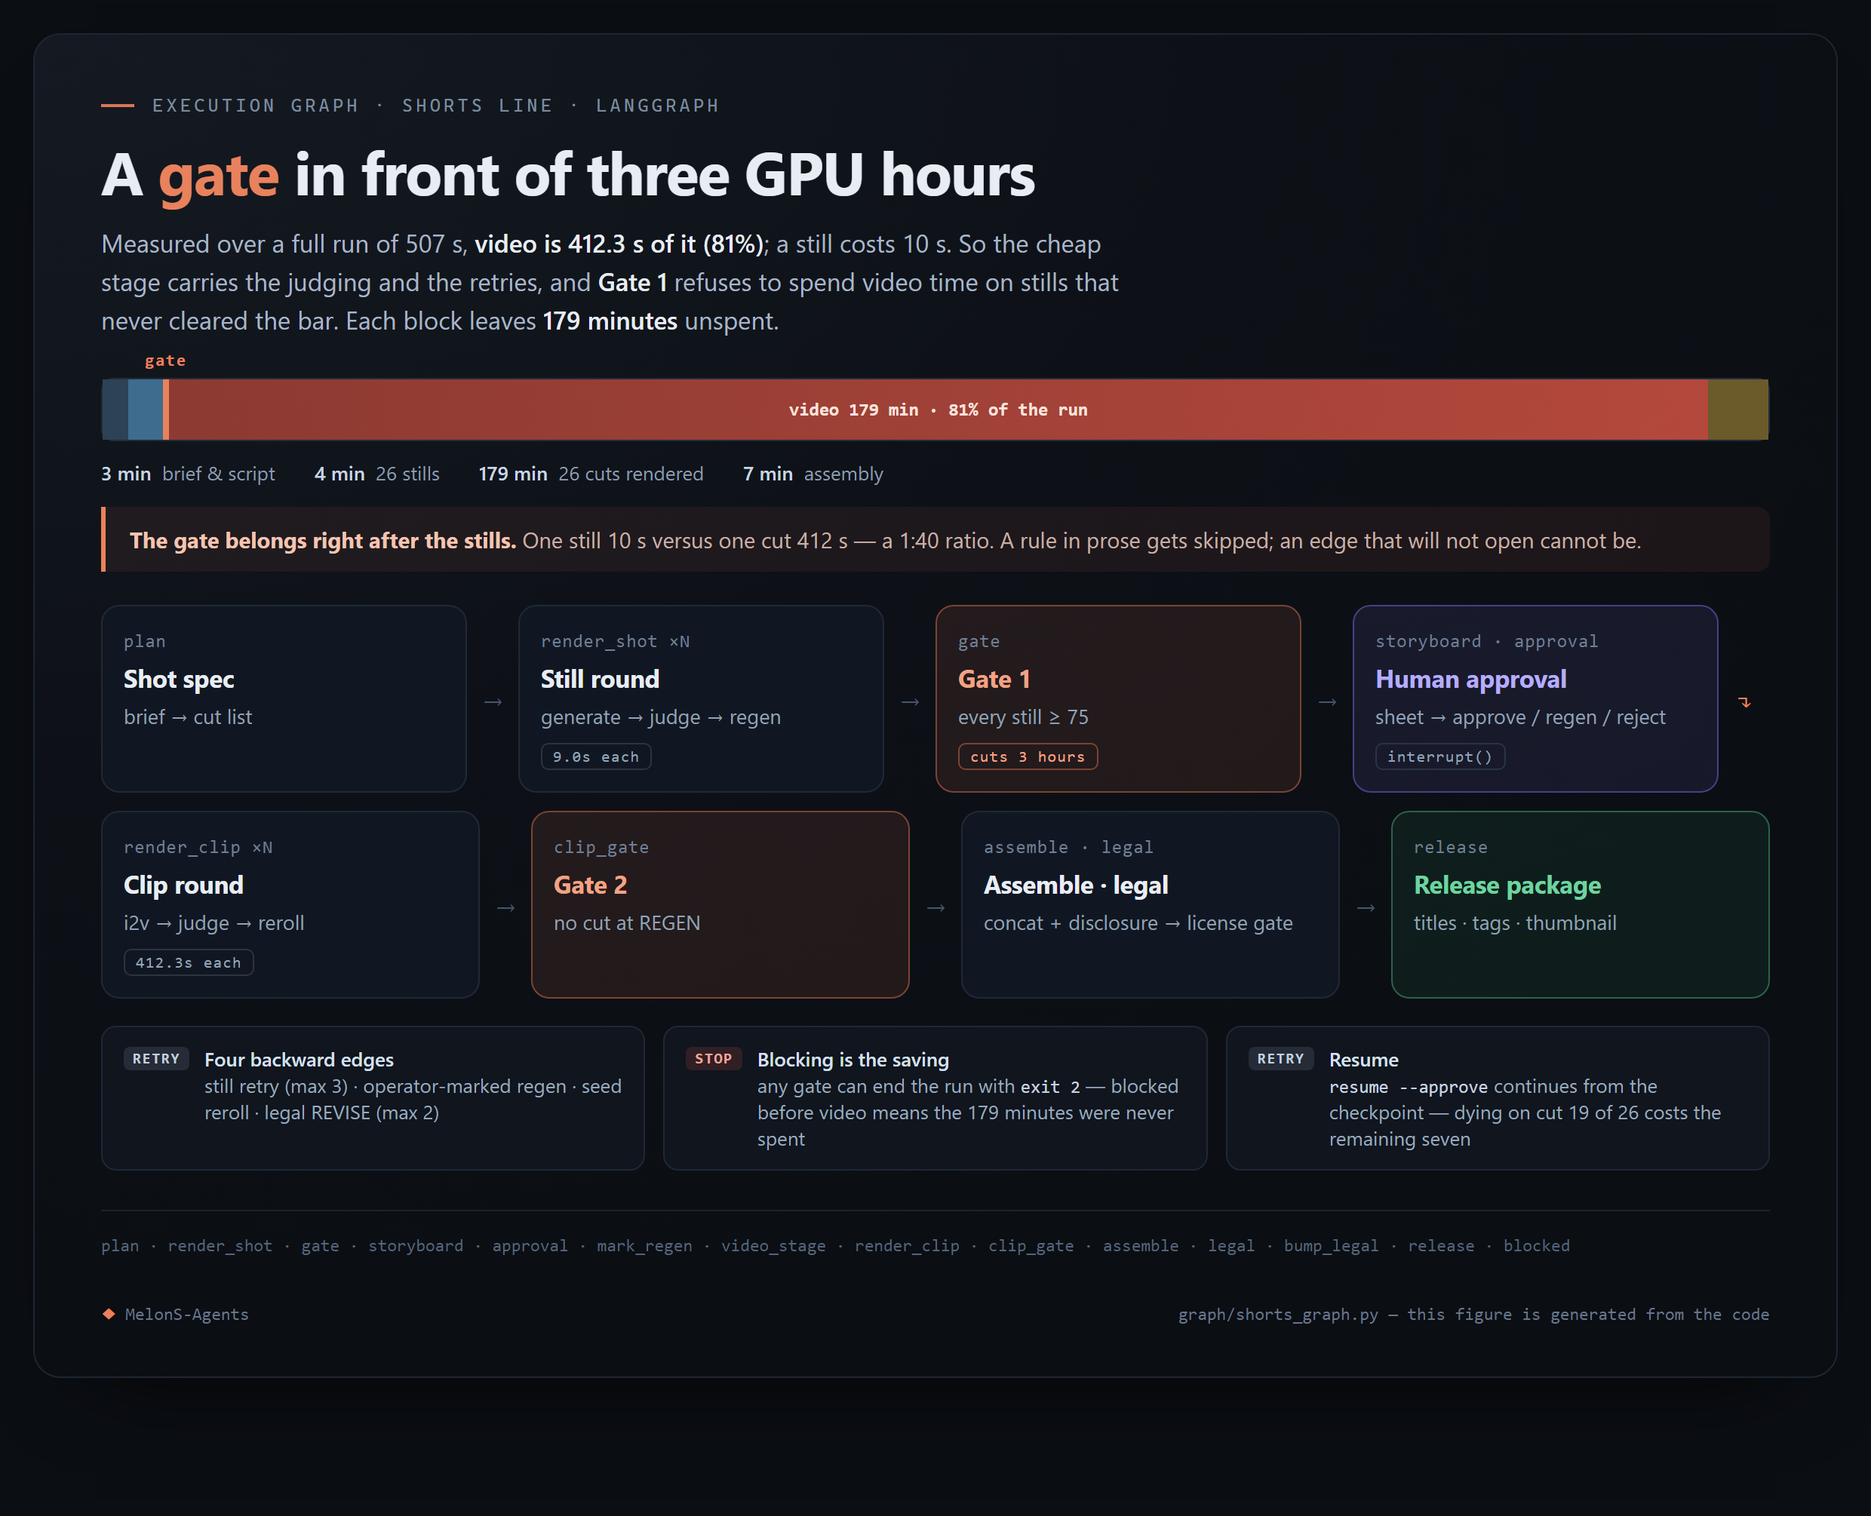
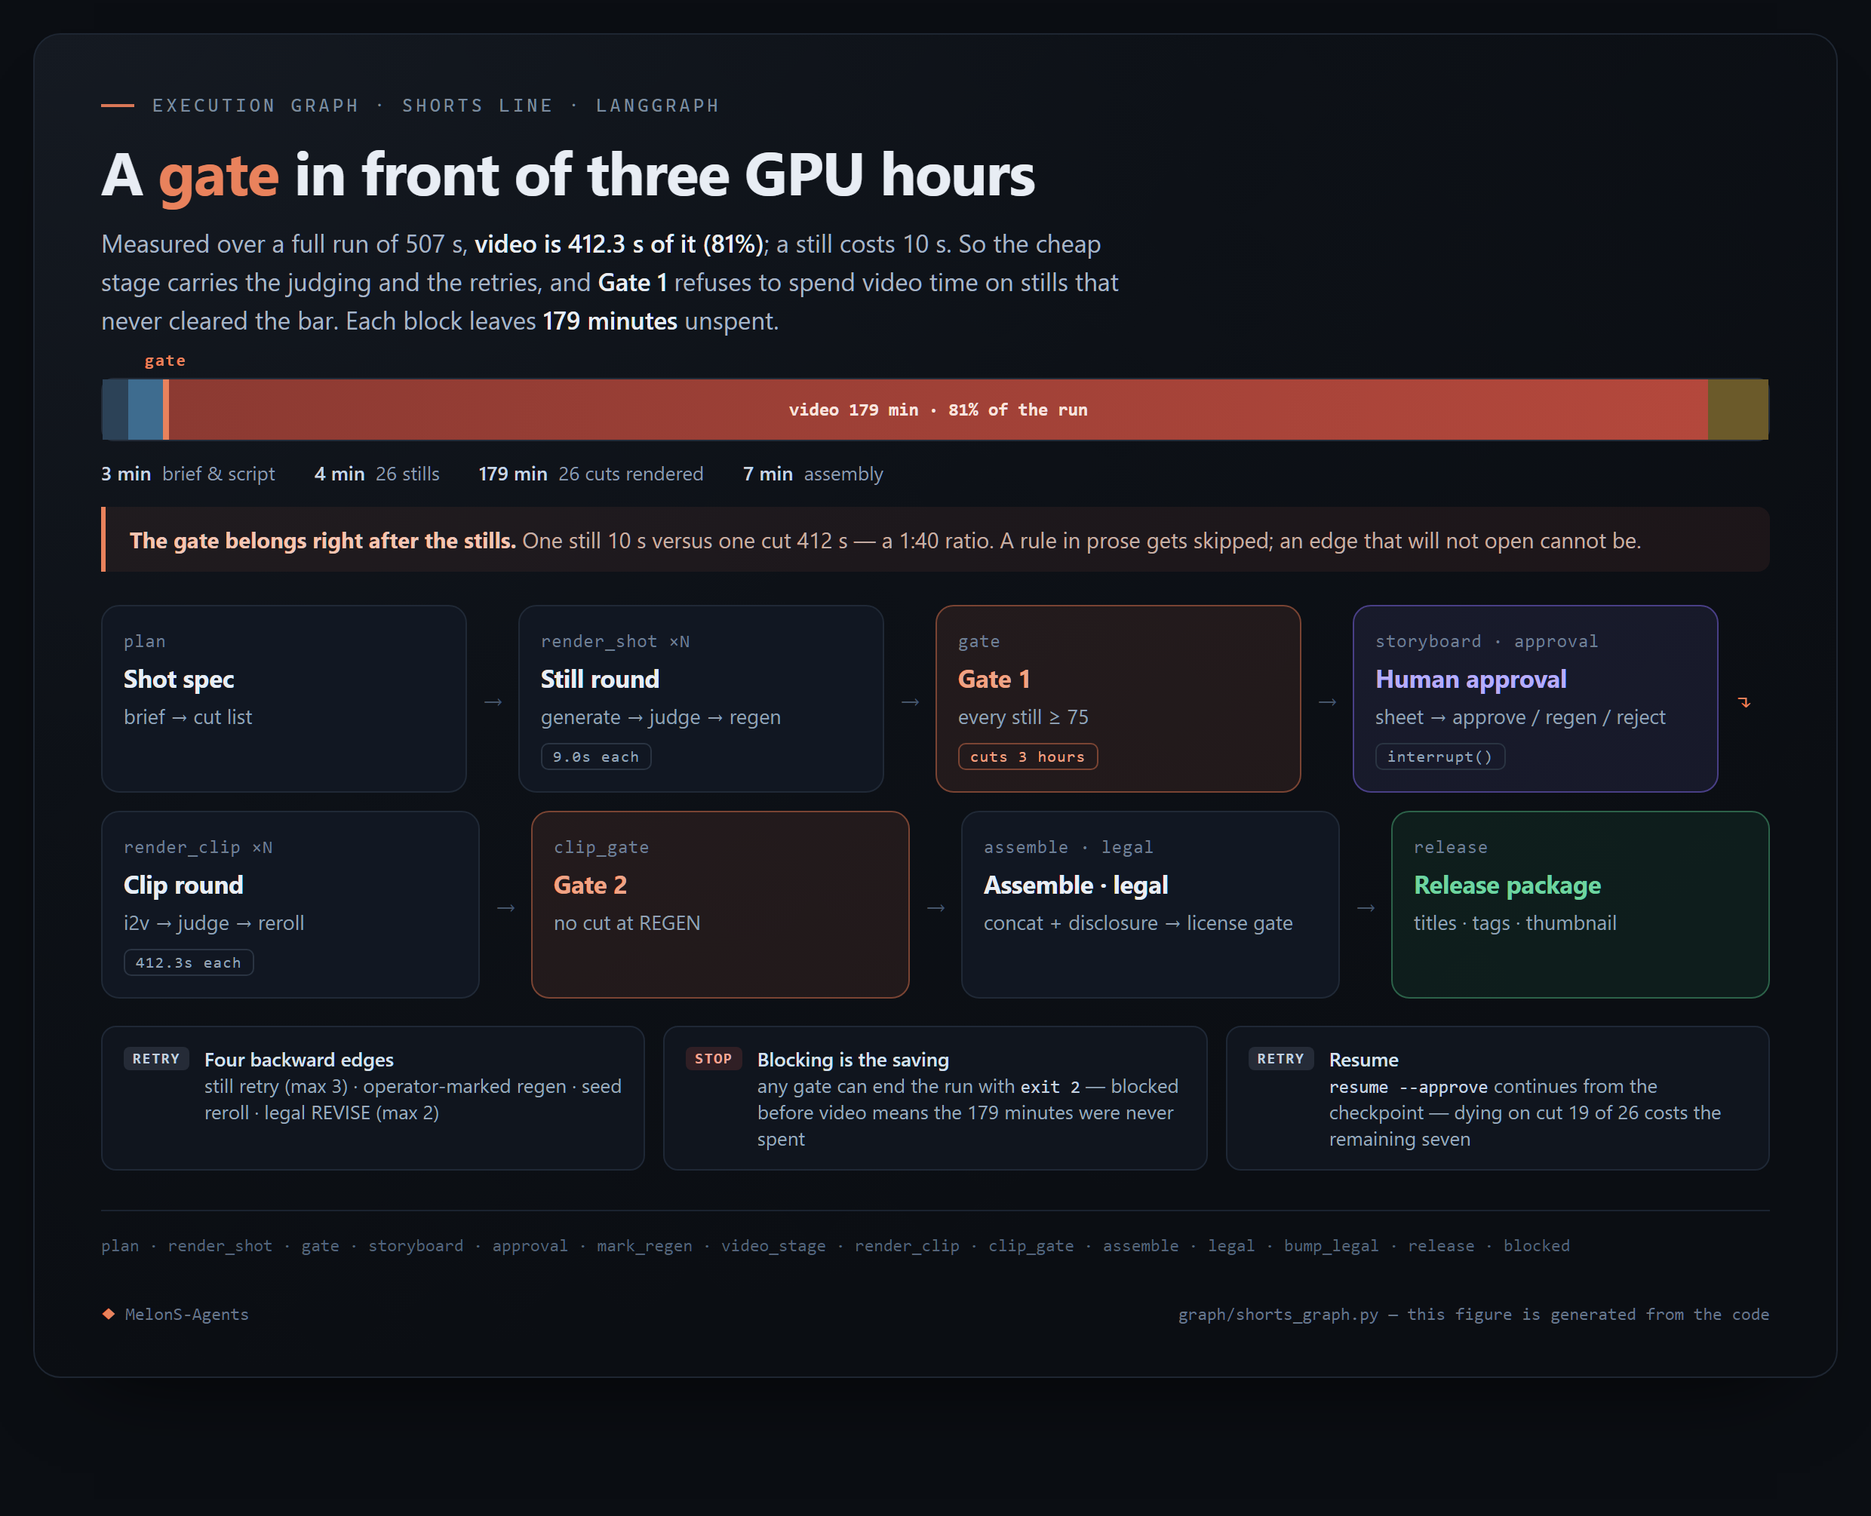
docs(readme): 구조도 안 한국어를 읽히게 다시 씀 — 내부 용어를 걷어냈다
운영자: "한국어 표현이 어색하고 무슨말인지 모르겠음". 그림은 있었지만 그 안의
문구가 처음 보는 사람 기준으로 읽히지 않았다. 세 가지가 겹쳐 있었다.

1. 문체가 README 와 달랐다 — 본문은 합니다체인데 카드만 "…막는다 / …남는다"
   해라체였다(docs/ko-style-guide.md §1 위반).
2. 내부 용어가 설명 없이 그대로 — fan-out · 엣지 · interrupt() · REGEN 컷 0 ·
   시드 리롤 · 뮤텍스 · 배타 구간 · exit 2.
3. 뜻이 모호한 축약 — "3시간 차단", "상태의 경로만 읽음", "차단 = 절약".

바꾼 방향은 "무엇을 하는가"를 그대로 쓰는 것:
- 문 1 → **1차 검사** / "모든 스틸이 75점을 넘어야 통과" · 배지 "여기서 3시간을 아낍니다"
- 사람 승인(interrupt()) → **사람 확인** / "검수 시트를 보고 승인·재생성·취소"
- REGEN 컷 0 → "다시 만들어야 할 컷이 없어야 통과"
- 되돌아가는 엣지 4개 → **다시 돌아가는 길 4개**
- 차단 = 절약 → "막히면 그 자리에서 끝납니다 … 179분은 아직 쓰지 않은 상태입니다"
- 게임: "같은 fan-out, 문이 아니라 뮤텍스" → **"갈라져 일하고, Unity 앞에서 한 줄로
  섭니다"**, 배타 구간 → "Unity 차례 · 한 번에 하나만", 거짓 검증 →
  "어제 빌드를 보고 '고쳤다'고 하는 일을 막습니다"
- 용어 통일: 막대·범례의 영상화/영상 생성, 마커 문/검사.

노드 id(plan · render_shot …)는 코드 이름이라 그대로 뒀다 — 그림과 코드를 잇는
근거다. 카드 alt 도 새 문구에 맞춰 갱신(parity OK).

diff --git a/scripts/render-graph-art.py b/scripts/render-graph-art.py
@@ -150,43 +150,45 @@ def _rows(steps: list[str], per_row: int = 4) -> str:
 def shorts_html(lang: str) -> str:
     ko = lang == "ko"
     steps = [
-        _step("plan", "샷 스펙" if ko else "Shot spec", "기획 → 컷 목록" if ko else "brief → cut list"),
+        _step("plan", "촬영 목록" if ko else "Shot spec", "기획을 컷 단위로 나눕니다" if ko else "brief → cut list"),
         _step("render_shot ×N", "스틸 라운드" if ko else "Still round",
-              "생성 → 심사 → 재생성" if ko else "generate → judge → regen", badge="9.0s / 장" if ko else "9.0s each"),
-        _step("gate", "문 1" if ko else "Gate 1",
-              "전 샷 75점 이상" if ko else "every still ≥ 75", kind="gate",
-              badge="3시간 차단" if ko else "cuts 3 hours"),
-        _step("storyboard · approval", "사람 승인" if ko else "Human approval",
-              "검수 시트 → 승인·재생성·취소" if ko else "sheet → approve / regen / reject",
-              kind="human", badge="interrupt()"),
+              "이미지 생성 → 채점 → 미달이면 다시" if ko else "generate → judge → regen", badge="장당 9초" if ko else "9.0s each"),
+        _step("gate", "1차 검사" if ko else "Gate 1",
+              "모든 스틸이 75점을 넘어야 통과" if ko else "every still ≥ 75", kind="gate",
+              badge="여기서 3시간을 아낍니다" if ko else "cuts 3 hours"),
+        _step("storyboard · approval", "사람 확인" if ko else "Human approval",
+              "검수 시트를 보고 승인·재생성·취소" if ko else "sheet → approve / regen / reject",
+              kind="human", badge="여기서 멈춰 기다립니다" if ko else "interrupt()"),
         _step("render_clip ×N", "컷 라운드" if ko else "Clip round",
-              "영상화 → 심사 → 시드 리롤" if ko else "i2v → judge → reroll",
-              badge="412.3s / 컷" if ko else "412.3s each"),
-        _step("clip_gate", "문 2" if ko else "Gate 2",
-              "REGEN 컷 0" if ko else "no cut at REGEN", kind="gate"),
-        _step("assemble · legal", "조립 · 법률" if ko else "Assemble · legal",
-              "concat + 고지 → 라이선스 게이트" if ko else "concat + disclosure → license gate"),
-        _step("release", "출시 패키지" if ko else "Release package",
-              "제목·태그·썸네일·귀속" if ko else "titles · tags · thumbnail", kind="done"),
+              "스틸을 영상으로 → 채점 → 다시 뽑기" if ko else "i2v → judge → reroll",
+              badge="컷당 412초" if ko else "412.3s each"),
+        _step("clip_gate", "2차 검사" if ko else "Gate 2",
+              "다시 만들어야 할 컷이 없어야 통과" if ko else "no cut at REGEN", kind="gate"),
+        _step("assemble · legal", "합치고 법률 검토" if ko else "Assemble · legal",
+              "이어붙이기·출처 표기 → 저작권 확인" if ko else "concat + disclosure → license gate"),
+        _step("release", "출시 준비 완료" if ko else "Release package",
+              "제목·태그·썸네일·출처 정리" if ko else "titles · tags · thumbnail", kind="done"),
     ]
     flow = _rows(steps, 4)
     if ko:
-        eyebrow = "실행 그래프 · 쇼츠 라인 · LANGGRAPH"
+        eyebrow = "쇼츠 제작 흐름 · LANGGRAPH"
         title = 'GPU 3시간 앞에 <em>문</em>을 세운다'
-        lede = ("한 편 실측 507초 중 <b>영상화가 412.3초(81%)</b>다. 스틸 한 장은 10초. "
-                "그래서 싼 단계가 심사와 재시도를 안고, <b>문 1</b>이 기준 미달 스틸에 영상화 시간을 "
-                "쓰지 못하게 막는다. 한 번 막을 때마다 <b>179분</b>이 남는다.")
-        legend = [("기획·대본", "3분"), ("스틸 26장", "4분"), ("영상화 26컷", "179분"), ("조립·자막", "7분")]
-        tip = ("<b>문의 자리는 스틸 직후.</b> 스틸 1장 10초 대 컷 1개 412초 — 비용비 1:40. "
-               "문서에 적어 두면 잊히지만, 엣지가 열리지 않으면 잊을 수가 없다.")
-        rails = [("retry", "되돌아가는 엣지 4개",
-                  "스틸 재시도(최대 3) · 승인에서 지목한 재생성 · 시드 리롤 · 법률 REVISE(최대 2)"),
-                 ("stop", "차단 = 절약",
-                  "어느 문에서 막히든 <code>exit 2</code>. 영상화 전에 막히면 179분을 아직 안 쓴 상태다"),
-                 ("retry", "이어서 하기",
-                  "<code>resume --approve</code> 는 체크포인트에서 재개 — 26컷 중 19컷에서 죽어도 남은 7컷만")]
+        lede = ("쇼츠 한 편을 만드는 데 약 3시간이 걸리는데, 실제로 재 보니 그중 <b>81%가 영상 생성 "
+                "한 단계</b>였습니다(507초 중 412초). 스틸 이미지 한 장은 10초면 만듭니다. 그래서 값싼 "
+                "스틸 단계에서 먼저 채점하고, 기준을 넘지 못한 스틸은 영상 생성으로 넘기지 않습니다. "
+                "한 번 걸러낼 때마다 <b>179분</b>을 아낍니다.")
+        legend = [("기획·대본", "3분"), ("스틸 26장", "4분"), ("영상 생성 26컷", "179분"), ("조립·자막", "7분")]
+        tip = ("<b>검사 지점은 스틸 직후입니다.</b> 스틸 한 장 10초 대 영상 한 컷 412초, 비용이 40배 "
+               "차이 납니다. 문서에 적어 둔 규칙은 잊히지만, 검사를 통과하지 못하면 다음 단계로 가는 "
+               "길 자체가 열리지 않습니다.")
+        rails = [("retry", "다시 돌아가는 길 4개",
+                  "스틸 다시 만들기(최대 3회) · 사람이 지목한 것만 다시 · 영상 다시 뽑기 · 법률 수정(최대 2회)"),
+                 ("stop", "막히면 그 자리에서 끝납니다",
+                  "어느 검사에서 막히든 실행이 종료됩니다. 영상 생성 전에 막혔다면 179분은 아직 쓰지 않은 상태입니다"),
+                 ("retry", "중간부터 다시",
+                  "진행 상황이 저장돼 있어, 26컷 중 19컷에서 멈춰도 남은 7컷만 다시 만듭니다")]
         foot_l = "plan · render_shot · gate · storyboard · approval · mark_regen · video_stage · render_clip · clip_gate · assemble · legal · bump_legal · release · blocked"
-        foot_r = "graph/shorts_graph.py — 이 그림은 코드에서 생성된다"
+        foot_r = "graph/shorts_graph.py — 이 그림은 코드에서 자동 생성됩니다"
     else:
         eyebrow = "EXECUTION GRAPH · SHORTS LINE · LANGGRAPH"
         title = 'A <em>gate</em> in front of three GPU hours'
@@ -205,7 +207,7 @@ def shorts_html(lang: str) -> str:
         foot_l = "plan · render_shot · gate · storyboard · approval · mark_regen · video_stage · render_clip · clip_gate · assemble · legal · bump_legal · release · blocked"
         foot_r = "graph/shorts_graph.py — this figure is generated from the code"
 
-    gate_label = "문" if ko else "gate"
+    gate_label = "검사" if ko else "gate"
     legend_html = "".join(
         f'<div><b>{_esc(v)}</b> &nbsp;{_esc(k)}</div>' for k, v in legend)
     rails_html = "".join(
@@ -218,7 +220,7 @@ def shorts_html(lang: str) -> str:
   <div class="bar-wrap">
     <div class="bar">
       <div class="s-plan"></div><div class="s-still"></div><div class="s-gate" data-label="{gate_label}"></div>
-      <div class="s-i2v">{'영상화 179분 · 전체의 81%' if ko else 'video 179 min · 81% of the run'}</div>
+      <div class="s-i2v">{'영상 생성 179분 · 전체의 81%' if ko else 'video 179 min · 81% of the run'}</div>
       <div class="s-asm"></div>
     </div>
     <div class="bar-legend">{legend_html}</div>
@@ -234,35 +236,37 @@ def shorts_html(lang: str) -> str:
 def game_html(lang: str) -> str:
     ko = lang == "ko"
     steps = [
-        _step("pm_publish", "작업 발행" if ko else "Publish task", "레인 3개 오픈" if ko else "open three lanes"),
+        _step("pm_publish", "작업 발행" if ko else "Publish task", "할 일을 정하고 세 갈래로 나눕니다" if ko else "open three lanes"),
         _step("review", "검토" if ko else "Review",
-              "Director · Designer · AI Designer", kind="gate"),
-        _step("work_lane ×3", "제작 병렬" if ko else "Parallel lanes",
-              "코드 · 아트 · 사운드" if ko else "code · art · sound", badge="fan-out"),
-        _step("unity_scene · unity_build", "Unity 배타 구간" if ko else "Unity critical section",
-              "씬 생성 → 빌드, 산출물 경로를 상태에 확정" if ko else "scene → build, paths pinned into state",
-              kind="human", badge="🔒 mutex"),
-        _step("qa", "실물 검증" if ko else "Verify on the build",
-              "exe 실행 · 스크린샷 — 상태의 경로만 읽는다" if ko else "launch exe · screenshot — pinned paths only"),
-        _step("ta", "아트 심사" if ko else "Art review",
-              "TA 가 품질을 채점하고 수정 지시" if ko else "TA scores quality, returns a fix list", kind="gate"),
-        _step("pm_merge", "병합" if ko else "Merge",
-              "리듀서가 상태를 합친다" if ko else "reducer merges state", kind="done"),
+              "방향·설계·AI 담당이 함께 확인합니다" if ko else "Director · Designer · AI Designer", kind="gate"),
+        _step("work_lane ×3", "동시 작업" if ko else "Parallel lanes",
+              "코드 · 아트 · 사운드" if ko else "code · art · sound", badge="세 갈래 동시" if ko else "fan-out"),
+        _step("unity_scene · unity_build", "Unity 차례" if ko else "Unity critical section",
+              "씬을 만들고 빌드합니다. 만든 결과물의 위치를 기록해 둡니다" if ko else "scene → build, paths pinned into state",
+              kind="human", badge="🔒 한 번에 하나만" if ko else "🔒 mutex"),
+        _step("qa", "직접 확인" if ko else "Verify on the build",
+              "빌드를 실행해 화면을 찍습니다. 방금 기록해 둔 그 결과물만 봅니다" if ko else "launch exe · screenshot — pinned paths only"),
+        _step("ta", "아트 검사" if ko else "Art review",
+              "그림 품질을 채점하고 고칠 점을 알려 줍니다" if ko else "TA scores quality, returns a fix list", kind="gate"),
+        _step("pm_merge", "반영" if ko else "Merge",
+              "각 갈래의 결과를 하나로 합칩니다" if ko else "reducer merges state", kind="done"),
     ]
     flow = _rows(steps, 4)
     if ko:
-        eyebrow = "실행 그래프 · 게임 라인 · LANGGRAPH"
-        title = '같은 fan-out, 문이 아니라 <em>뮤텍스</em>'
-        lede = ("게임 라인의 병목은 시간이 아니라 <b>배타 자원</b>과 <b>거짓 검증</b>이다. "
-                "Unity 는 두 레인이 동시에 몰 수 없어서, 병렬 제작 레인이 문이 아니라 뮤텍스에서 합류한다.")
-        rails = [("stop", "거짓 검증을 구조로 막는다",
-                  "빌드 폴더가 날짜 스탬프라 자정을 넘기면 어제 빌드를 열고 \"고쳤다\"가 된다. "
-                  "<code>unity_build</code> 가 경로를 상태에 확정하고 <code>qa</code> 는 그 경로만 읽는다"),
-                 ("retry", "되돌아가는 엣지",
-                  "빌드 실패·TA 미달 → <code>fix</code>(최대 3회) → 배타 구간 재진입"),
-                 ("stop", "상한 소진",
-                  "회차를 다 쓰면 <code>blocked</code> 로 끝나고 블로커가 기록된다")]
-        foot_r = "graph/game_graph.py — 이 그림은 코드에서 생성된다"
+        eyebrow = "게임 제작 흐름 · LANGGRAPH"
+        title = '갈라져 일하고, Unity 앞에서 <em>한 줄로</em> 섭니다'
+        lede = ("게임 쪽에서 발목을 잡는 것은 시간이 아니라 <b>Unity</b> 입니다. Unity 는 한 번에 하나의 "
+                "작업만 다룰 수 있어서, 코드·아트·사운드가 동시에 진행되다가 Unity 앞에서는 반드시 "
+                "한 줄로 서야 합니다. 그리고 <b>어제 만든 빌드를 보고 다 고쳤다고 착각하는 일</b>을 막는 "
+                "장치가 그 뒤에 붙습니다.")
+        rails = [("stop", "어제 빌드를 보고 \"고쳤다\"고 하는 일을 막습니다",
+                  "빌드 폴더 이름에 날짜가 붙어 있어 자정을 넘기면 엉뚱한 폴더를 열기 쉽습니다. "
+                  "방금 만든 결과물의 위치를 기록해 두고, 확인은 그 위치만 봅니다"),
+                 ("retry", "다시 돌아가는 길",
+                  "빌드가 실패하거나 아트 검사에서 미달이면 고친 뒤 Unity 차례로 되돌아갑니다(최대 3회)"),
+                 ("stop", "정해진 횟수를 다 쓰면",
+                  "그 자리에서 멈추고 무엇 때문에 막혔는지 기록을 남깁니다")]
+        foot_r = "graph/game_graph.py — 이 그림은 코드에서 자동 생성됩니다"
     else:
         eyebrow = "EXECUTION GRAPH · GAME LINE · LANGGRAPH"
         title = 'Same fan-out, a <em>mutex</em> instead of a gate'

diff --git a/README.ko.md b/README.ko.md
@@ -38,7 +38,7 @@
 
 ### 쇼츠 제작 구조도
 
-![쇼츠 실행 그래프 — 다크 카드: 26컷 한 편에서 영상화가 179분을 차지한다는 비용 막대와 스틸 직후에 선 문 표시, 이어서 샷 스펙 → 스틸 라운드(장당 9.0초) → 문 1 → 사람 승인(interrupt) → 컷 라운드(컷당 412.3초) → 문 2 → 조립·법률 → 출시 패키지 흐름, 그리고 되돌아가는 엣지 4개와 차단 레일](docs/visuals/15-graph-shorts-ko.png)
+![쇼츠 제작 흐름 — 다크 카드: 26컷 한 편에서 영상 생성이 179분(전체의 81%)을 차지한다는 비용 막대와 스틸 직후의 검사 지점 표시, 이어서 촬영 목록 → 스틸 라운드(장당 9초) → 1차 검사 → 사람 확인 → 컷 라운드(컷당 412초) → 2차 검사 → 합치고 법률 검토 → 출시 준비 완료 흐름, 그리고 다시 돌아가는 길 4개와 중단·재개 안내](docs/visuals/15-graph-shorts-ko.png)
 
 *쇼츠 한 편은 약 3시간이고 그 중 81%가 영상화 단계입니다. 그래서 **문 1**이 기준을 넘지 못한
 스틸에 그 시간을 쓰지 못하게 막습니다.*
